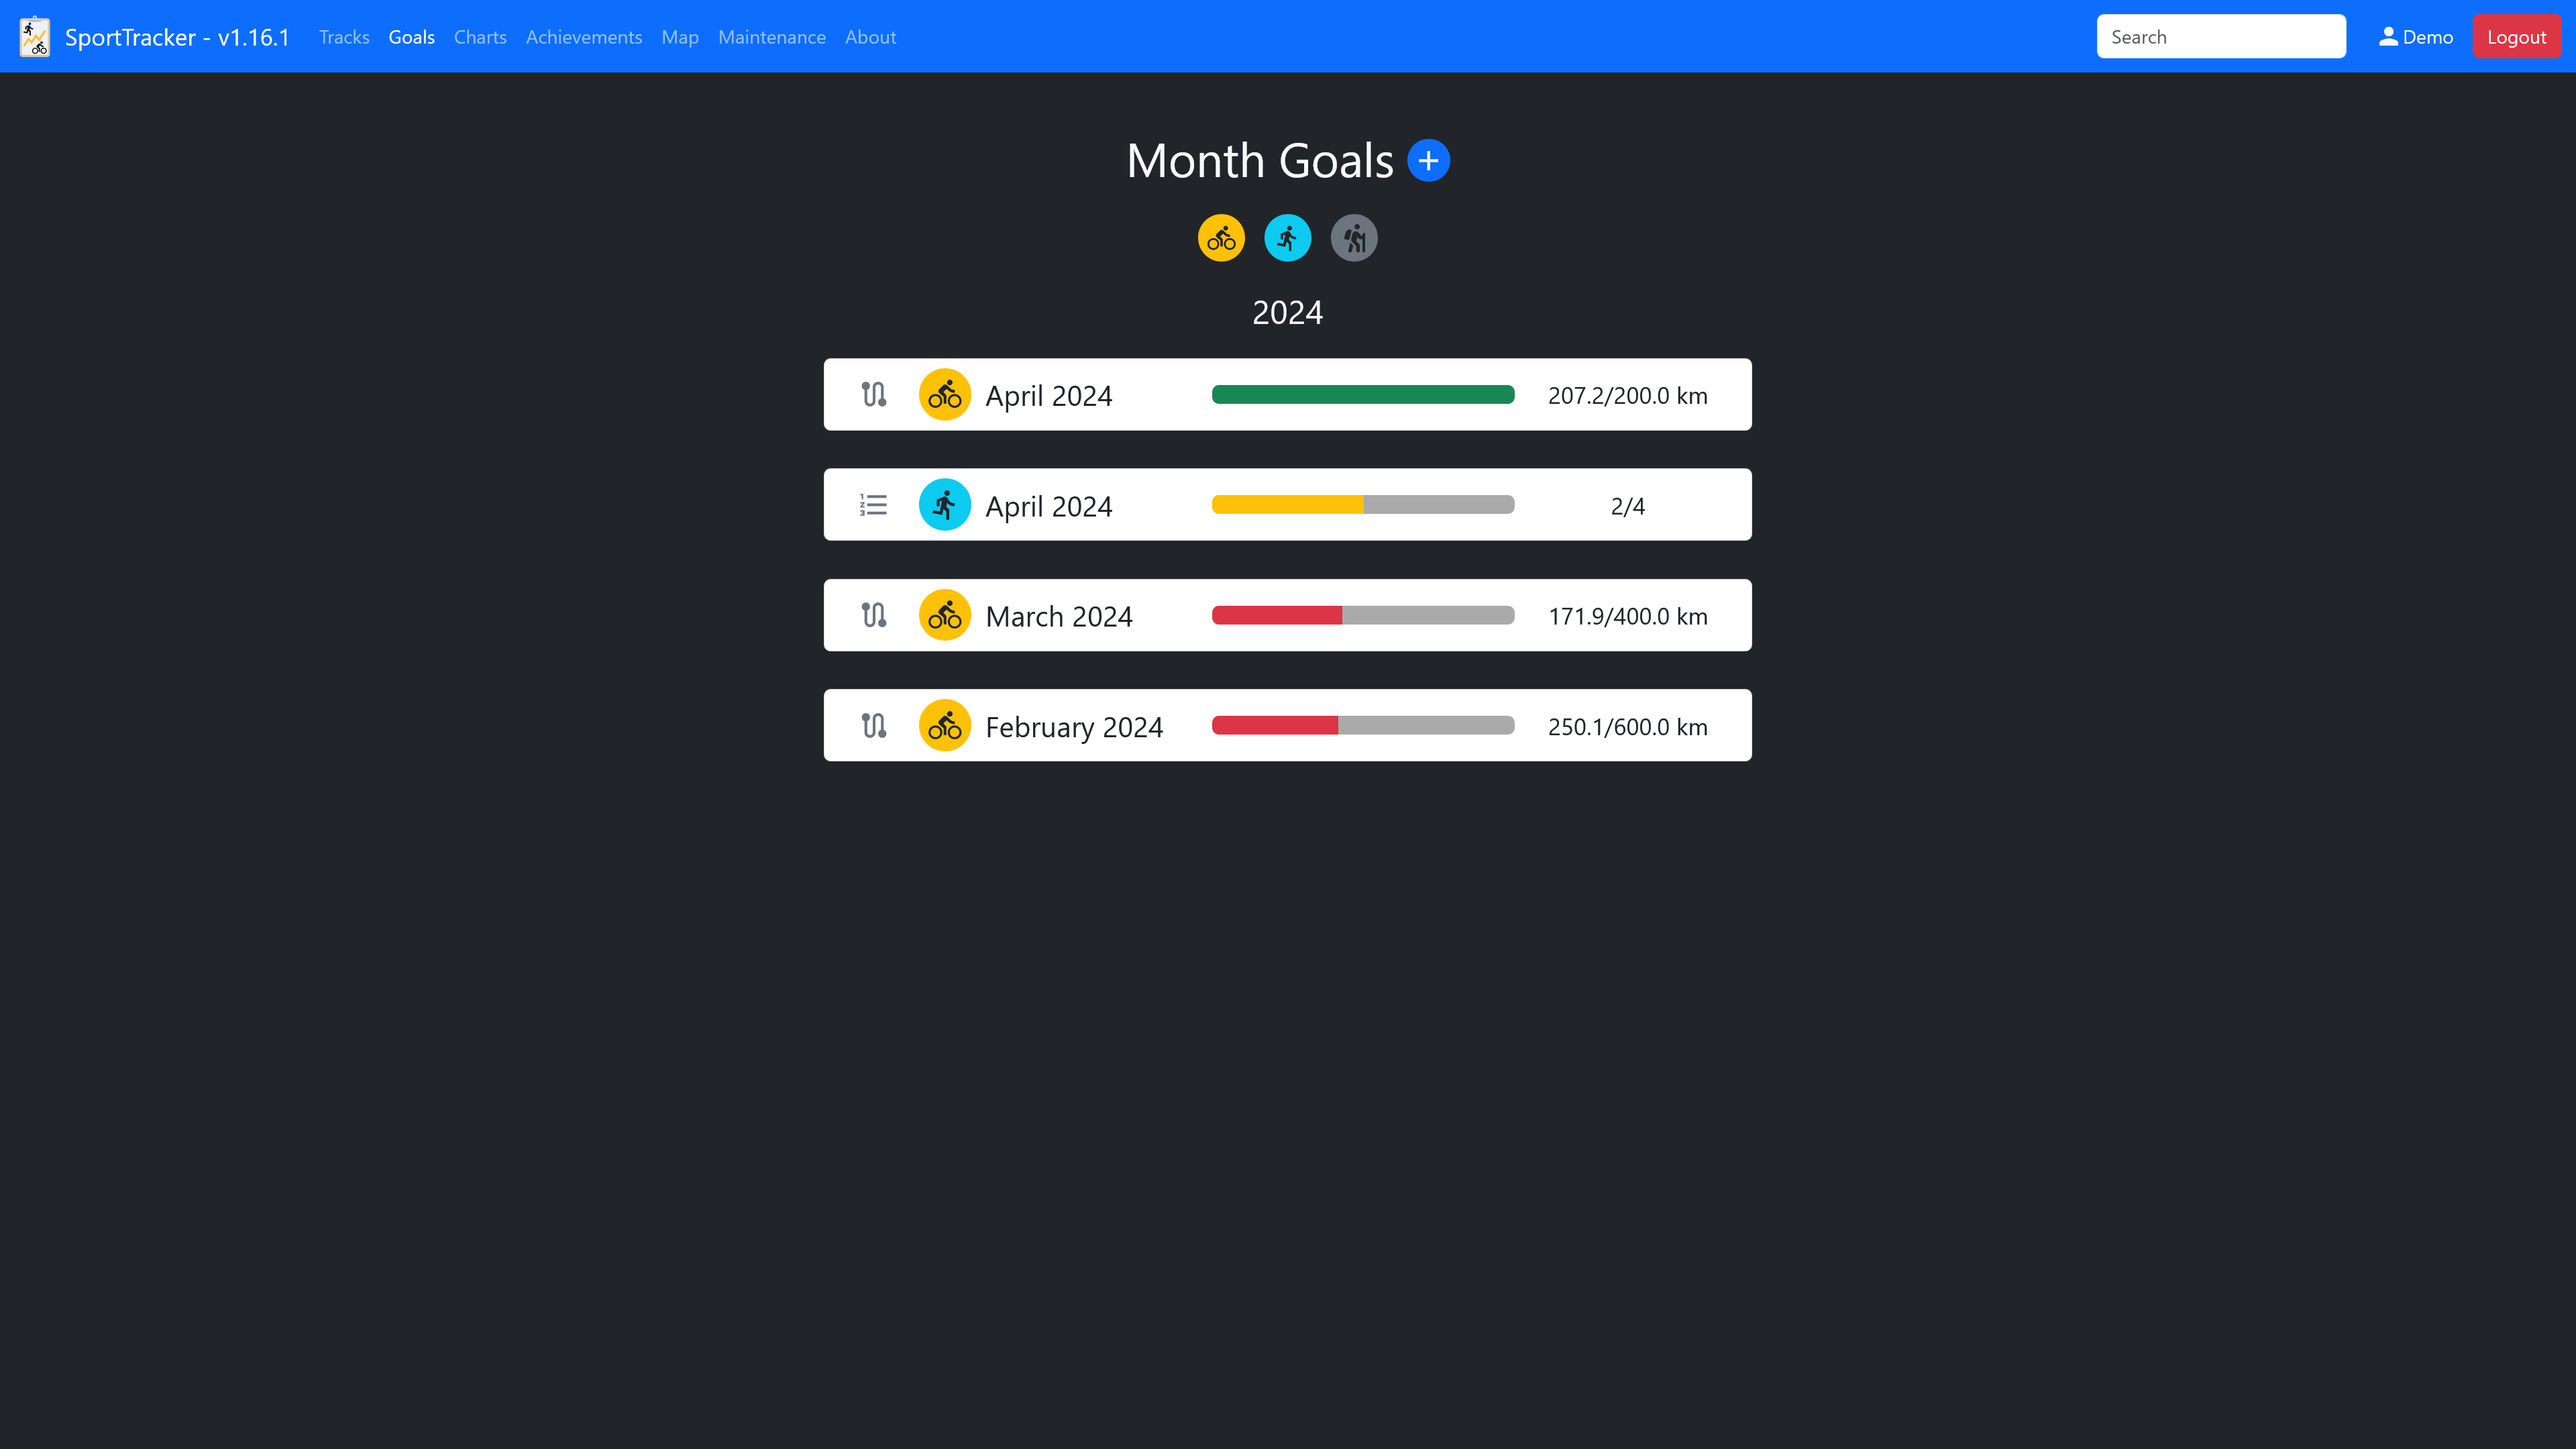
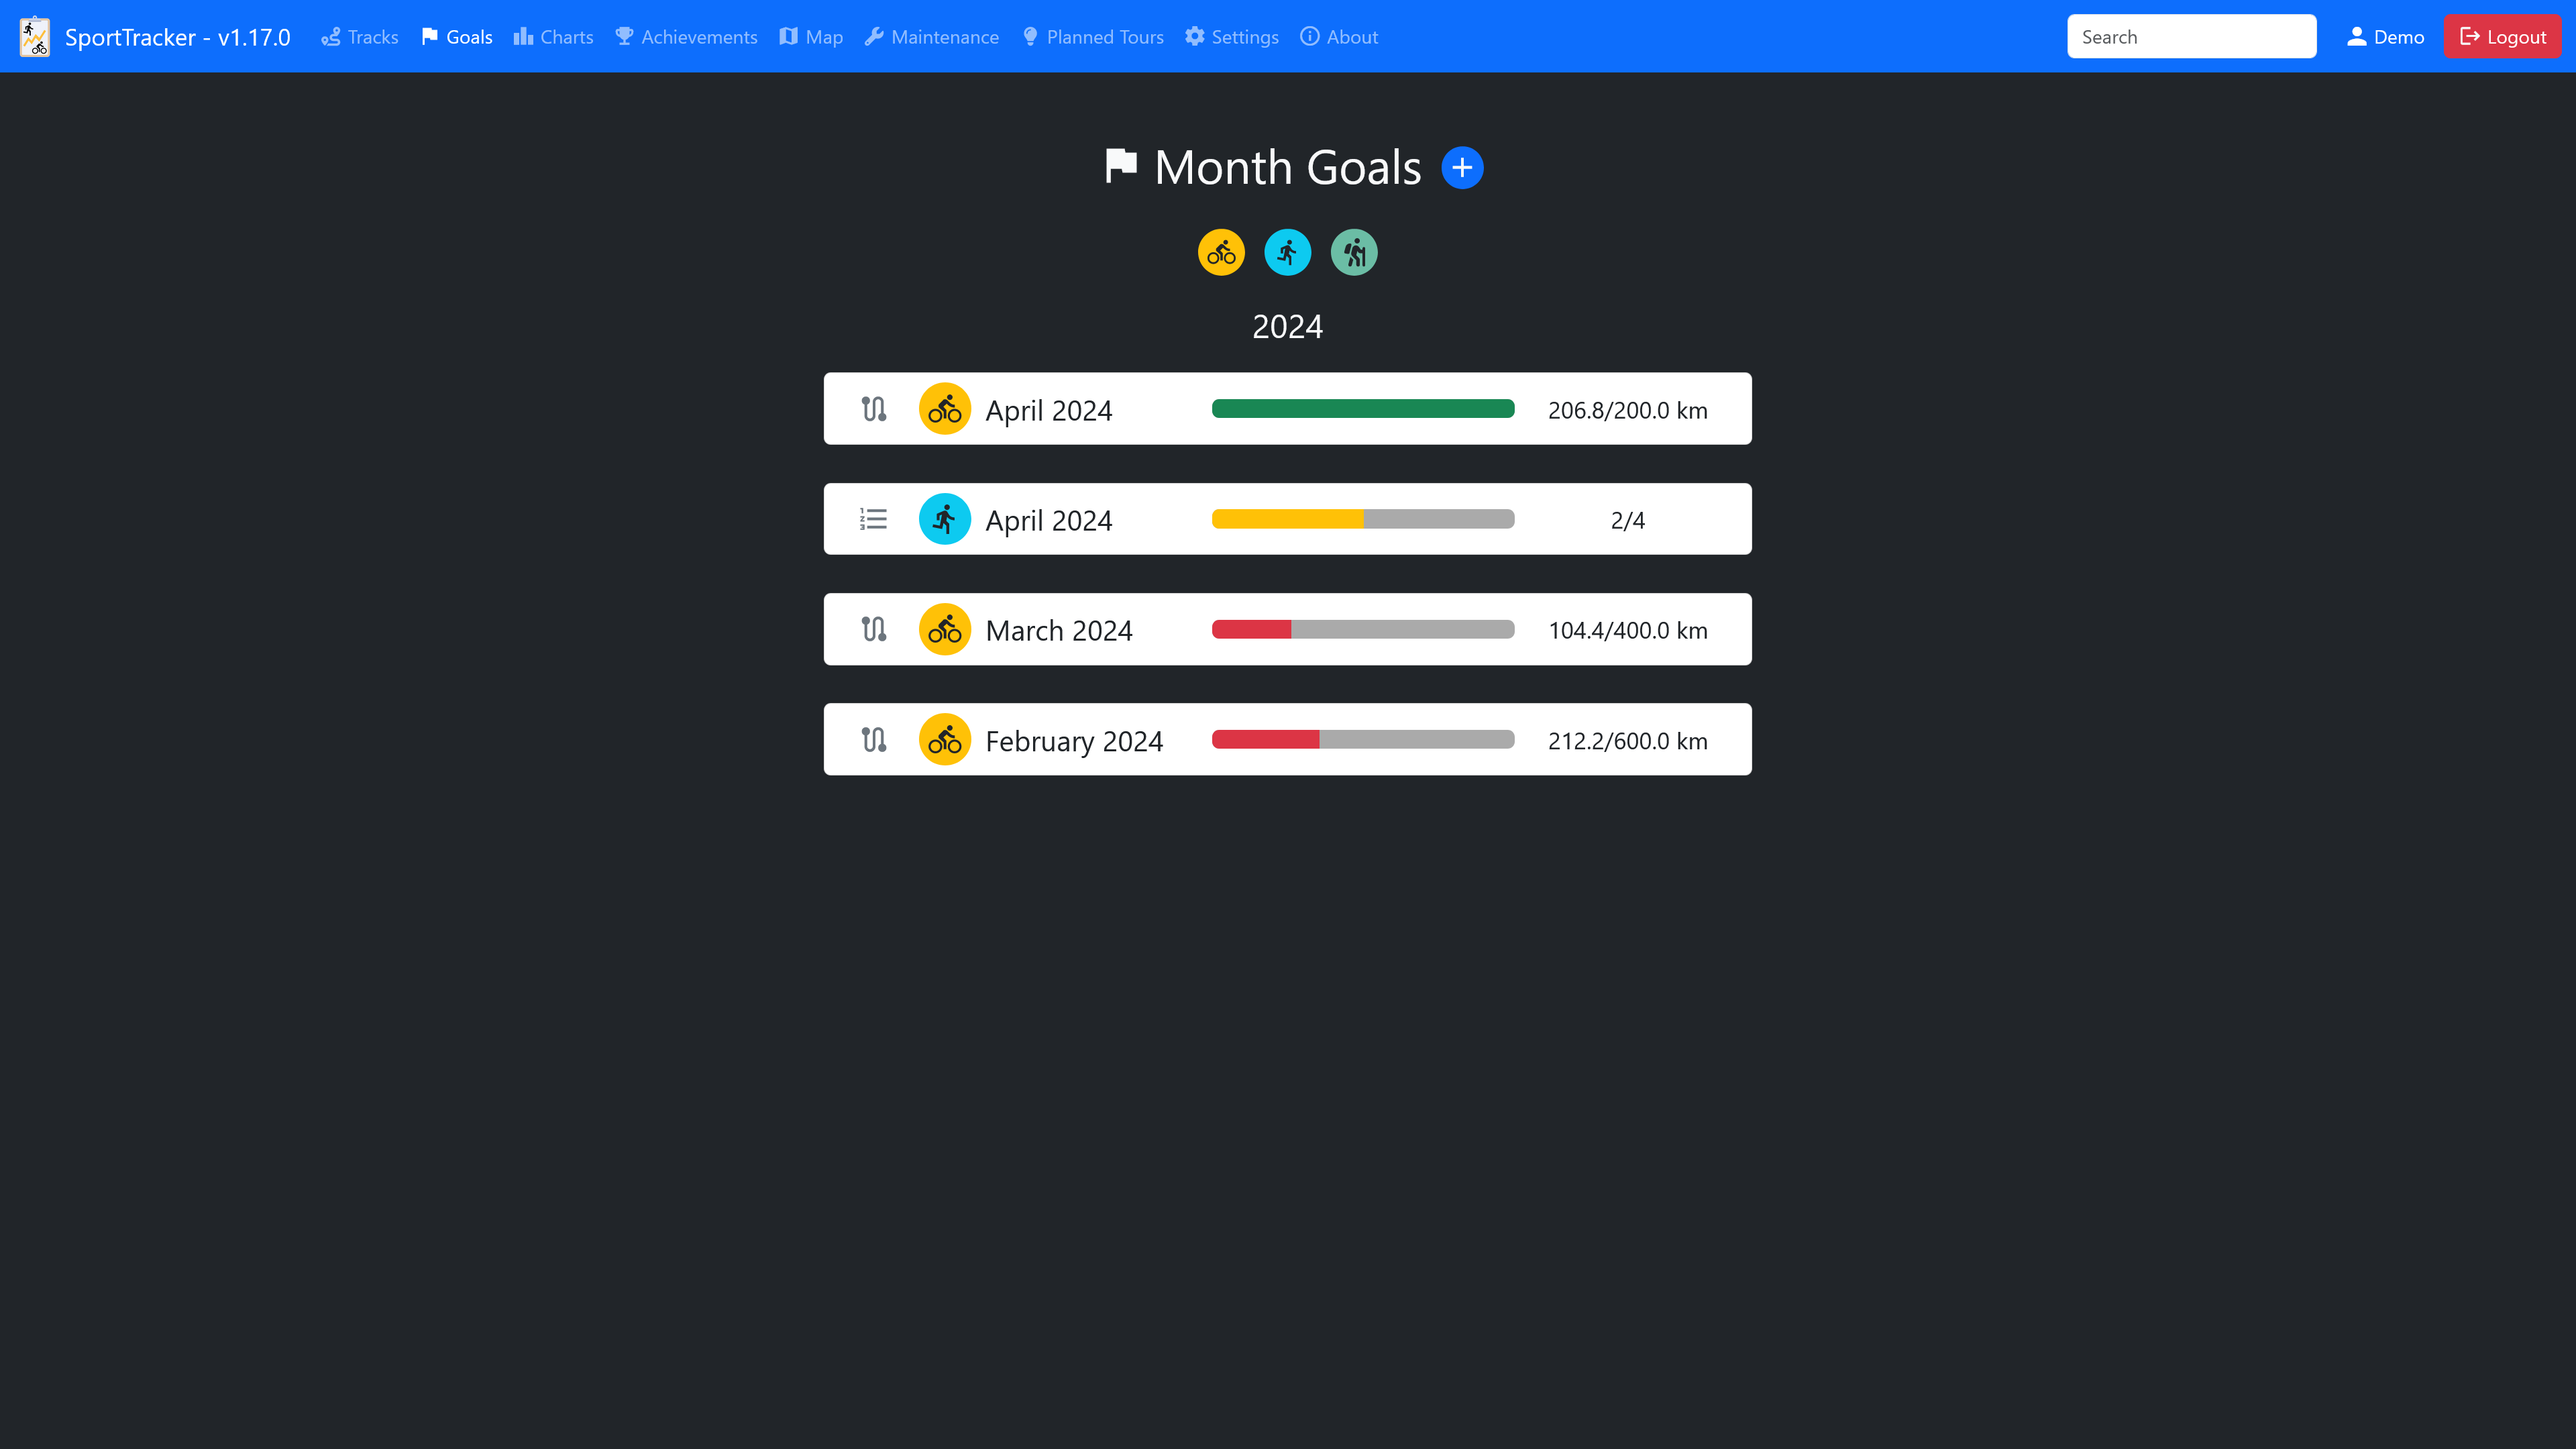
update screenshots and README

diff --git a/README.md b/README.md
@@ -43,6 +43,7 @@ Tracked data is visualized in charts, e.g.:
 - Duration per Track
 - etc.
 
+Example charts:
 ![](screenshots/chart_calendar.png)
 ![](screenshots/chart_duration_per_track.png)
 ![](screenshots/chart_distance_per_month.png)
@@ -56,6 +57,12 @@ The achievement page shows aggregated information about all your tracks.
 Record your maintenance events for each sport type.
 
 ![](screenshots/maintenance.png)
+
+### Planned Tours
+Save your planned tours for each sport type and view them on a map.
+
+
+![](screenshots/planned_tours.png)
 
 ### Available languages
 - German
